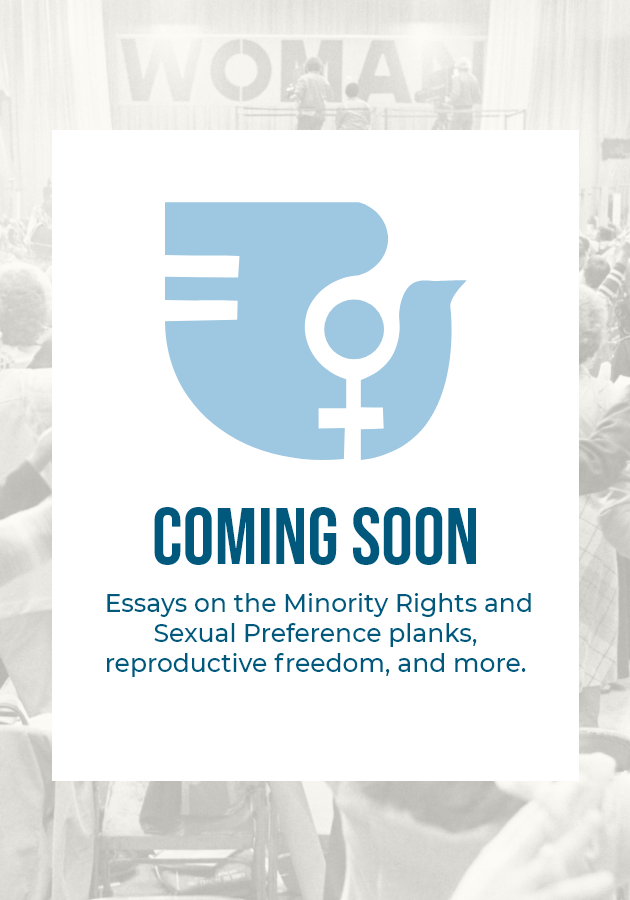
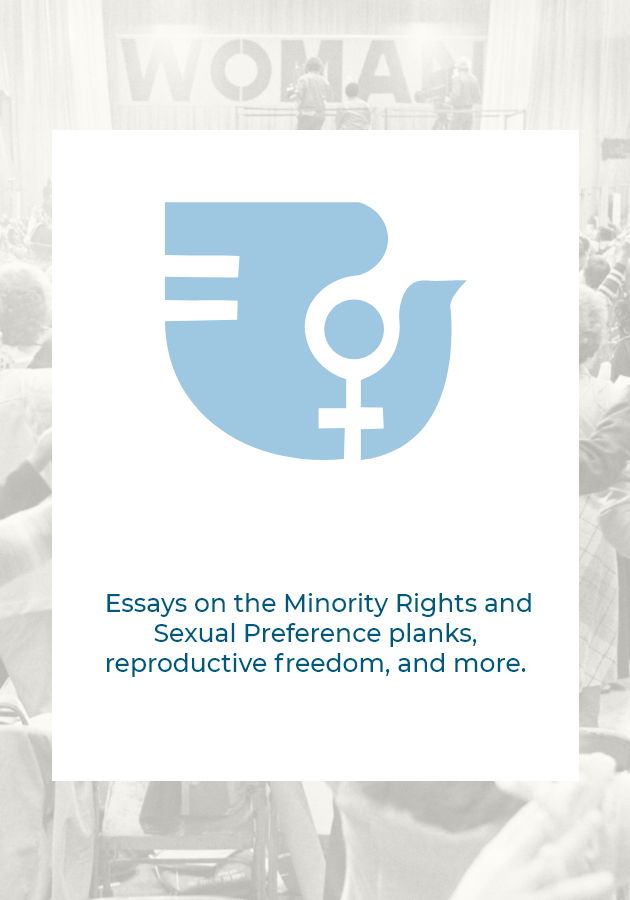
updated colors for essays and made essay list work with titles and thumbnails

Changed region(s): [[0.2413, 0.56, 0.754, 0.6533]]

diff --git a/src/Pages/Why/Why.js b/src/Pages/Why/Why.js
@@ -42,6 +42,7 @@ function Why() {
             })
         })
         .catch(err => console.log(err));
+        window.scrollTo(0, 0);
     }, []);
 
     useEffect(() => {
@@ -66,10 +67,12 @@ function Why() {
         const essays = props.essays;
         const listItems = essays.filter(essay => essay[3] === true)
             .map((essay) =>
-            <div key={essay[0]}>
-                <h3>{essay[2]}</h3>
+            <div key={essay[0]} className="thumb_with_title">
                 <Link to={`essay?id=${essay[0]}`}>
-                <img src={essay[1]} alt="" key={essay[0]} /></Link>
+                    <img src={essay[1]} alt="" key={essay[0]} />
+                    <h3 className="thumb_with_title_h3">{essay[2]}</h3>
+                </Link>
+                
             </div>
         );
         return (
@@ -87,7 +90,9 @@ function Why() {
                 <div className="whyBanner_card">
                     <h2>HISTORICAL OVERVIEW</h2>
                     <p>{pageState.HistoricalOverview}</p>
-                    <a href="/essay?id=6195463454e8a217c0d07075"><p className="why_readmore" >READ MORE</p></a>
+                    <Link to="/Essay?id=6195463454e8a217c0d07075">
+                        <p className="why_readmore" >READ MORE</p>
+                    </Link>
                 </div>
                 <figure>
                     <img src={whybannerhuman} alt=""/>
@@ -113,18 +118,17 @@ function Why() {
                 <div className="whyEssays">
                     <h2>FEATURED ESSAYS</h2>
                     <div className="whyEssays_list">
-                        <div>
-                            <h3>Torch Relay</h3>
+                        <div className="thumb_with_title">
                             <Link to="/Torch">
-                                <img src={`${VARIABLES.fetchBaseUrl}/uploads/comingsoon_thumb_a45492bb9f.png`} alt=""/>
+                                <img src={`${VARIABLES.fetchBaseUrl}/uploads/empty_thumb_0a3afbbd76.png`} alt=""/>
+                                <h3 className="thumb_with_title_h3">Torch Relay</h3>
                             </Link>
-                        </div>
+                        </div>  
                         <EssayList essays={essays} />,
-                        <div>
-                            <h3>Coming soon</h3>
-                            <img src={comingsoon} alt=""/>
+                        <div className="thumb_with_title">
+                            <img src={comingsoon} alt="" />
+                            <h3 className="thumb_with_title_h3">Coming soon</h3>
                         </div>
-                        
                     </div>
                 </div>
 

diff --git a/src/Pages/Why/Why.css b/src/Pages/Why/Why.css
@@ -116,13 +116,6 @@ ESSAYS
     font-weight: normal;
 }
 
-.whyEssays h3 {
-    font-family: var(--fontBabasNeue);
-    font-size: 50rem;
-    color: var(--colorDeepRed);
-    font-weight: normal;
-}
-
 .whyEssays_list {
     display: flex;
     width: 100%;
@@ -130,13 +123,31 @@ ESSAYS
     justify-content: left;
 }
 
-.whyEssays_list img {
-    width: 350rem;
-    margin-right: 50rem;
+.thumb_with_title {
+    position: relative;
+    text-align: center;
 }
 
-.whyEssays_list img:hover {
-    opacity: .8;
+.thumb_with_title_h3 {
+    position: absolute;
+    top: 60%;
+    left: 50%;
+    transform: translate(-50%, -50%);
+    font-family: var(--fontBabasNeue);
+    font-size: 45rem;
+    color: var(--colorMediumBlue);
+    font-weight: normal;
+    width: 350rem;
+}
+
+.whyEssays_list img {
+    width: 350rem;
+    margin-right: 15rem;
+    margin-left: 15rem;
+}
+
+.whyEssays_list a:hover {
+    opacity: .6;
 }
 
 .whyEssays_list::-webkit-scrollbar {

diff --git a/src/Pages/Torch/Torch.css b/src/Pages/Torch/Torch.css
@@ -3,7 +3,7 @@
     margin-block-start: 20rem;
     margin-block-end: 20rem;
     font-size: 25rem;
-    color: var(--colorLightGrayFont);
+    color: var(--colorDarkBlue);
     font-family: var(--fontMontserrat);
 }
 /*
@@ -54,7 +54,7 @@ SECTION 1
 }
 
 .torchSection1_text p {
-    color: var(--colorLightGrayFont);
+    color: var(--colorDarkBlue);
 }
 
 /*
@@ -229,7 +229,7 @@ CONCLUSION
     font-family: var(--fontMontserrat);
     padding-left: 200rem;
     padding-right: 200rem;
-    color: var(--colorLightGrayFont);
+    color: var(--colorDarkBlue);
     padding-bottom: 40rem;
 }
 

diff --git a/src/Custom.css b/src/Custom.css
@@ -15,6 +15,7 @@ body {
   --colorLightGray: #CCC9C9; /*Like seen in the text of homeMap's popup*/
   --colorLightGrayFont: #A5A5A5; /*Like seen in the text for essays*/
   --colorDarkBlue: #142F45; /*Like seen in the background of the Navigation*/
+  --colorMediumBlue: #357A93; /*Like seen in the essay lists short titles in thumnails*/
   --colorLightBlue: #9EC7E1; /*Like seen in the links of Navigation*/
   --colorDeepRed: #B32525; /*Like seen on the border of Navigation*/
   --colorDeepOrange: #CB4E28; /*Like seen on the border of Navigation*/

diff --git a/src/Pages/Essay/Layout3.css b/src/Pages/Essay/Layout3.css
@@ -8,7 +8,7 @@
     margin-block-start: 20rem;
     margin-block-end: 20rem;
     font-size: 25rem;
-    color: var(--colorLightGrayFont);
+    color: var(--colorDarkBlue);
     font-family: var(--fontMontserrat);
 }
 
